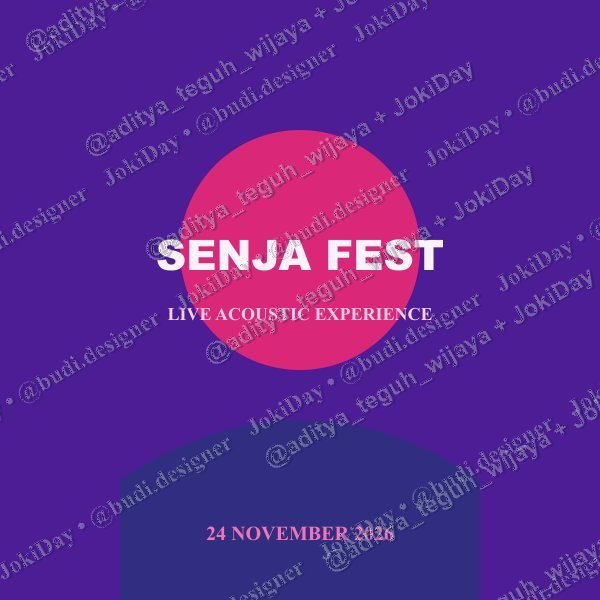
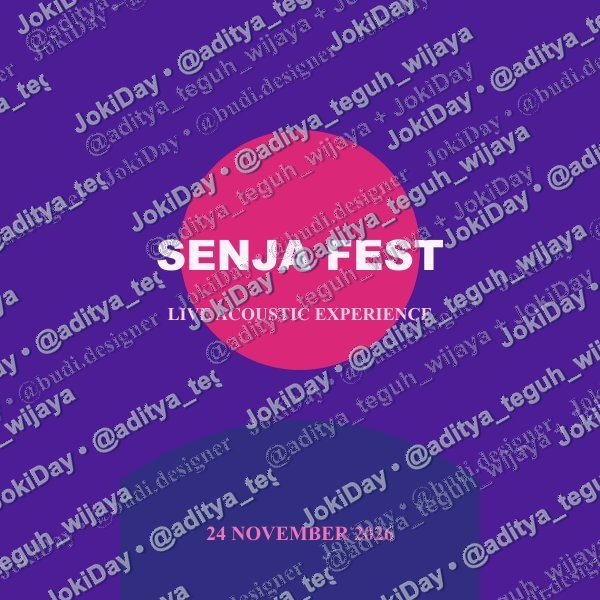
anti ss

diff --git a/src/server/media/watermark.service.ts b/src/server/media/watermark.service.ts
@@ -42,9 +42,10 @@ export interface WatermarkOptions {
 export class WatermarkService {
   /**
    * Menambahkan watermark diagonal berulang ke dalam gambar sesuai DESIGN.md:
-   * - Teks format: @username + JokiDay (aman glyph ASCII, tanpa tofu kotak-kotak)
+   * - Teks format: JokiDay • @username (aman glyph ASCII, tanpa tofu)
    * - Sudut diagonal -30 derajat
-   * - Dua lapis bergantian (putih 30% dan navy #0B1F4A 25%)
+   * - Dua lapis kontras ganda (putih dan navy #0B1F4A) agar terbaca jelas di latar terang maupun gelap
+   * - Pola bersilang (staggered / brick lattice) rapat tanpa celah kosong, melindungi seluruh kanvas dari screenshot/crop
    * - Font Noto Sans TTF tersemat via base64 font-face agar konsisten di semua platform
    * - Sisi terpanjang di-resize maksimum maxPx (default 1200px)
    */
@@ -72,19 +73,24 @@ export class WatermarkService {
     }
 
     const shortSide = Math.min(width, height);
-    const fontSize = Math.max(14, Math.round(shortSide * 0.04));
+    // Skala ukuran font proporsional (±4.2% dari sisi terpendek sesuai DESIGN.md)
+    const fontSize = Math.max(15, Math.round(shortSide * 0.042));
 
     // Bersihkan username dari karakter @ di depan jika ada, lalu sanitasi XML
     const rawUsername = options.username.trim().replace(/^@+/, "");
-    const safeUsername = escapeXml(rawUsername || "Desainer");
-    const textLabel = `@${safeUsername} + JokiDay`;
+    const safeUsername = escapeXml(rawUsername || "designer");
+    const textLabel = `JokiDay • @${safeUsername}`;
 
-    // Kalkulasi dimensi pattern SVG agar teks tidak tumpang tindih
-    const estimatedTextWidth = Math.ceil(textLabel.length * fontSize * 0.72);
-    const patternWidth = Math.max(260, Math.round(estimatedTextWidth * 1.6));
-    const patternHeight = Math.max(120, Math.round(fontSize * 5));
+    // Kalkulasi dimensi teks dan tile pattern bersilang rapat (brick layout)
+    const charWidth = fontSize * 0.64;
+    const textWidth = Math.ceil(textLabel.length * charWidth);
+    const horizontalGap = Math.max(36, Math.round(fontSize * 1.8));
+    const tileWidth = textWidth + horizontalGap;
+    const rowHeight = Math.max(38, Math.round(fontSize * 2.3));
+    const tileHeight = rowHeight * 2;
 
     const fontBase64 = getEmbeddedFontBase64();
+    const strokeWidth = Math.max(1.5, Number((fontSize * 0.08).toFixed(1)));
 
     const svgOverlay = Buffer.from(`
       <svg width="${width}" height="${height}" xmlns="http://www.w3.org/2000/svg">
@@ -95,19 +101,43 @@ export class WatermarkService {
                   @font-face {
                     font-family: 'JokiDayWatermarkFont';
                     src: url('data:font/ttf;base64,${fontBase64}');
-                    font-weight: bold;
+                    font-weight: 700;
                     font-style: normal;
                   }
+                  .wm-txt {
+                    font-family: 'JokiDayWatermarkFont', Arial, 'Segoe UI', Helvetica, sans-serif;
+                    font-size: ${fontSize}px;
+                    font-weight: 700;
+                    letter-spacing: 0.2px;
+                  }
                 </style>`
-              : ""
+              : `<style>
+                  .wm-txt {
+                    font-family: Arial, 'Segoe UI', Helvetica, sans-serif;
+                    font-size: ${fontSize}px;
+                    font-weight: 700;
+                    letter-spacing: 0.2px;
+                  }
+                </style>`
           }
-          <pattern id="wm" width="${patternWidth}" height="${patternHeight}" patternUnits="userSpaceOnUse" patternTransform="rotate(-30)">
-            <!-- Lapis 1: Navy #0B1F4A 25% -->
-            <text x="2" y="${patternHeight / 2 + 2}" font-family="'JokiDayWatermarkFont', Arial, 'Segoe UI', Helvetica, sans-serif" font-size="${fontSize}" font-weight="bold" fill="rgba(11, 31, 74, 0.25)">
+          <pattern id="wm" width="${tileWidth}" height="${tileHeight}" patternUnits="userSpaceOnUse" patternTransform="rotate(-30)">
+            <!-- Baris 1: x = 0 -->
+            <!-- Lapis 1: Navy (#0B1F4A) untuk kontras di latar terang -->
+            <text x="1.5" y="${rowHeight * 0.72 + 1.5}" class="wm-txt" fill="#0B1F4A" fill-opacity="0.38" stroke="#0B1F4A" stroke-width="${strokeWidth}" stroke-opacity="0.35">
               ${textLabel}
             </text>
-            <!-- Lapis 2: Putih 30% -->
-            <text x="0" y="${patternHeight / 2}" font-family="'JokiDayWatermarkFont', Arial, 'Segoe UI', Helvetica, sans-serif" font-size="${fontSize}" font-weight="bold" fill="rgba(255, 255, 255, 0.30)">
+            <!-- Lapis 2: Putih (#FFFFFF) untuk kontras di latar gelap -->
+            <text x="0" y="${rowHeight * 0.72}" class="wm-txt" fill="#FFFFFF" fill-opacity="0.48" stroke="#FFFFFF" stroke-width="${strokeWidth * 0.5}" stroke-opacity="0.30">
+              ${textLabel}
+            </text>
+
+            <!-- Baris 2: x = tileWidth / 2 (Staggered offset 50%) -->
+            <!-- Lapis 1: Navy (#0B1F4A) -->
+            <text x="${tileWidth / 2 + 1.5}" y="${rowHeight * 1.72 + 1.5}" class="wm-txt" fill="#0B1F4A" fill-opacity="0.38" stroke="#0B1F4A" stroke-width="${strokeWidth}" stroke-opacity="0.35">
+              ${textLabel}
+            </text>
+            <!-- Lapis 2: Putih (#FFFFFF) -->
+            <text x="${tileWidth / 2}" y="${rowHeight * 1.72}" class="wm-txt" fill="#FFFFFF" fill-opacity="0.48" stroke="#FFFFFF" stroke-width="${strokeWidth * 0.5}" stroke-opacity="0.30">
               ${textLabel}
             </text>
           </pattern>
@@ -135,4 +165,3 @@ export class WatermarkService {
     };
   }
 }
-

diff --git a/scripts/update-post-preview.ts b/scripts/update-post-preview.ts
@@ -1,0 +1,80 @@
+import { PrismaClient } from "@prisma/client";
+import fs from "node:fs";
+import path from "node:path";
+import { WatermarkService } from "../src/server/media/watermark.service";
+
+const prisma = new PrismaClient();
+
+async function main() {
+  console.log("Updating post previews with perfected dense watermark...");
+
+  const posts = await prisma.post.findMany({
+    include: { previewAsset: true, designer: { include: { user: true } } },
+  });
+
+  const uploadsDir = path.join(process.cwd(), "public", "uploads", "previews");
+  if (!fs.existsSync(uploadsDir)) {
+    fs.mkdirSync(uploadsDir, { recursive: true });
+  }
+
+  for (const post of posts) {
+    if (!post.previewAssetId) continue;
+    const username = post.designer.user.username || post.designer.user.displayName || "designer";
+    const usernameSlug = username.toLowerCase().replace(/\s+/g, "_");
+
+    console.log(`Processing post ${post.id} (${post.caption}) by @${usernameSlug}...`);
+
+    let rawBuffer: Buffer | null = null;
+
+    // Check if we already have scratch-final-dark.jpg or downloaded buffer
+    if (post.id === '7a13a0a0-4097-4eb0-b131-a77e6adcb729' && fs.existsSync('scratch-post2-downloaded.jpg')) {
+      rawBuffer = fs.readFileSync('scratch-post2-downloaded.jpg');
+    } else {
+      // Check existing file in previews
+      const possibleFilenames = [
+        `wm_${post.previewAssetId}.jpg`,
+        `${post.previewAssetId}.jpg`,
+        post.previewAssetId,
+      ];
+      for (const fn of possibleFilenames) {
+        const p = path.join(uploadsDir, fn);
+        if (fs.existsSync(p)) {
+          rawBuffer = fs.readFileSync(p);
+          break;
+        }
+      }
+    }
+
+    if (rawBuffer) {
+      const { buffer: newWmBuffer, width, height } = await WatermarkService.applyWatermark(
+        rawBuffer,
+        {
+          username: usernameSlug,
+          maxPx: 1200,
+        }
+      );
+
+      const targetFileName = `wm_${post.previewAssetId}.jpg`;
+      const targetFilePath = path.join(uploadsDir, targetFileName);
+      fs.writeFileSync(targetFilePath, newWmBuffer);
+      console.log(`[OK] Saved new watermarked preview to ${targetFilePath}`);
+
+      await prisma.previewAsset.update({
+        where: { id: post.previewAssetId },
+        data: {
+          driveFileId: `/uploads/previews/${targetFileName}`,
+          width,
+          height,
+          isBroken: false,
+        },
+      });
+      console.log(`[OK] Updated previewAsset record in DB.`);
+    }
+  }
+
+  console.log("All previews updated successfully!");
+}
+
+main()
+  .catch(console.error)
+  .finally(() => prisma.$disconnect());

diff --git a/src/components/feed/FeedPreviewImage.tsx b/src/components/feed/FeedPreviewImage.tsx
@@ -159,6 +159,13 @@ export function FeedPreviewImage({
           isLoading ? "opacity-0 scale-98" : "opacity-100 scale-100 group-hover:scale-102"
         }`}
       />
+
+      {/* Lapisan Transparan Pelindung (Anti-Drag & Anti-Klik Kanan sesuai DESIGN.md) */}
+      <div
+        className="absolute inset-0 z-10 select-none bg-transparent pointer-events-auto"
+        onContextMenu={(e) => e.preventDefault()}
+        aria-hidden="true"
+      />
     </div>
   );
 }
